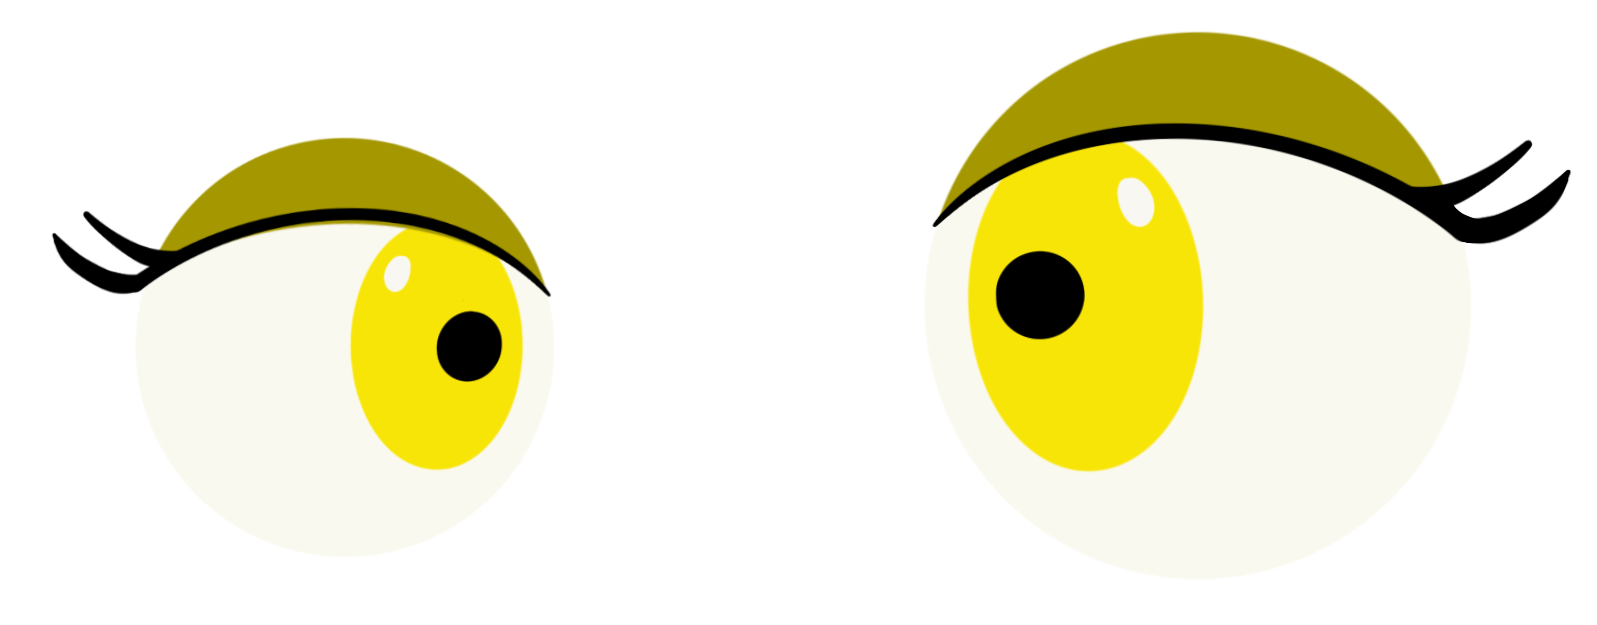
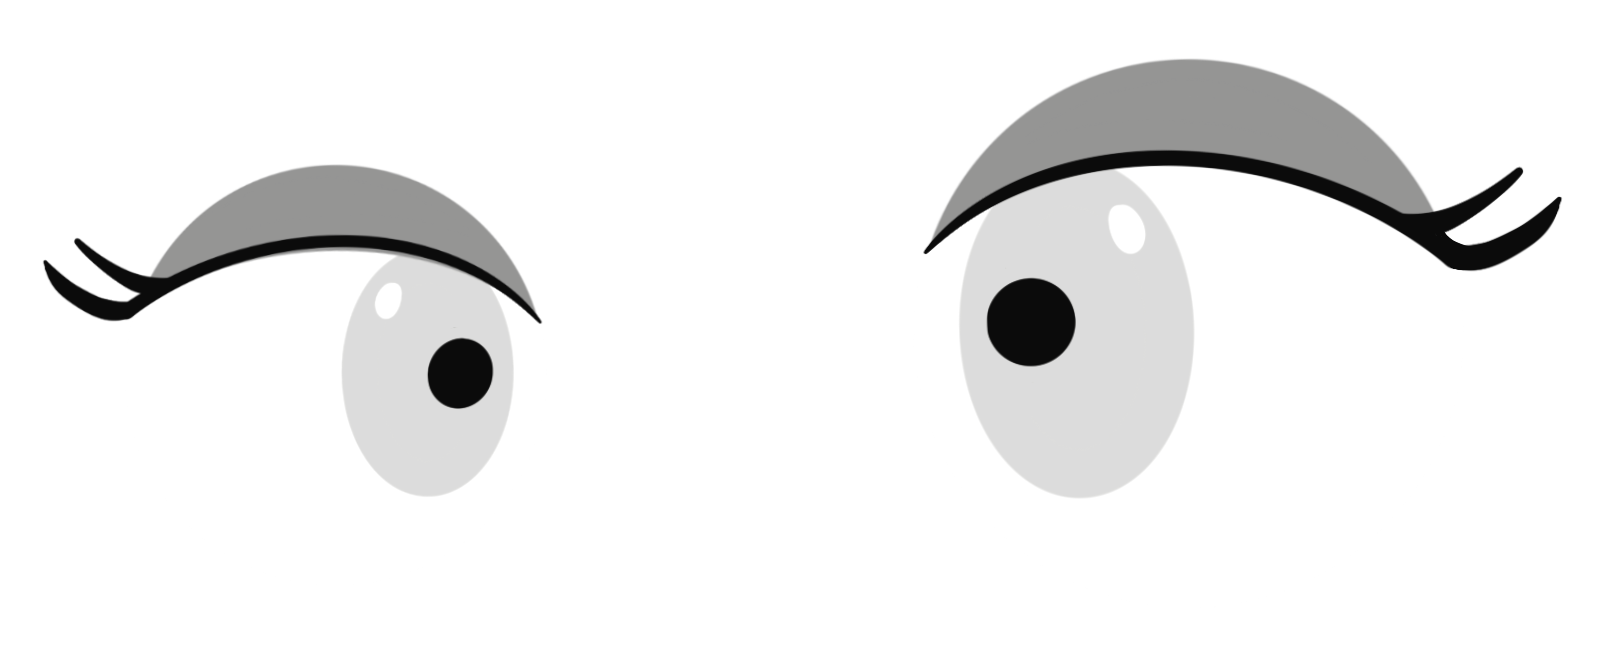
Color change facial features

Changed region(s): [[0.5523, 0.0304, 0.9818, 0.7904], [0.0307, 0.2128, 0.3375, 0.7904], [0.9512, 0.2128, 0.9818, 0.2432]]

diff --git a/main.js b/main.js
@@ -37,6 +37,7 @@ function setup() {
   handpose.detectStart(video, getHandsData);
 
   randomizeMood();
+  colorMode(HSB);
 }
 
 //function to randomize the artist's mood
@@ -118,6 +119,32 @@ function updateMoodImages() {
     }
 }
 
+let moodColor = [60, 100, 100];
+
+//changes the color of the facial features based on the mood in HSB
+//the mood is a variable because we dont want the color to change with the impatient mood
+function applyMoodColorFilter() {
+    if (mood === "sad") {
+        moodColor = [240, 100, 67];
+        tint(...moodColor);
+    } else if (mood === "angry") {
+        moodColor = [0, 100, 100];
+        tint(...moodColor);
+    } else if (mood === "mischievous") {
+        moodColor = [266, 100, 50];
+        tint(...moodColor);
+    } else if (mood === "benevolent") {
+        moodColor = [327, 100, 100]; 
+        tint(...moodColor);
+    } else if (mood === "happy") {
+        moodColor = [50, 100, 100];
+        tint(...moodColor);
+    } else if (mood === "impatient") {
+        tint(...moodColor);
+    }
+}
+
+
 
 function getHandsData(results) {
     predictions = results;
@@ -154,8 +181,10 @@ function filterObject() {
 //display random facial features from the array
 function displayFilter() {
     for (let feature of happyFilterShowing) {
+        applyMoodColorFilter();
         image(feature, 300, 200, 200, 100); 
     }
+    noTint();
 }
 //ChatGPT help: ends here
 
